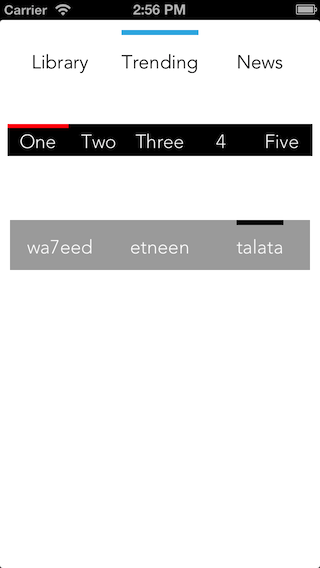
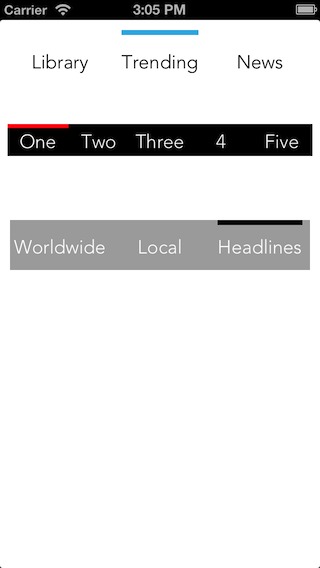
Updating screenshot

diff --git a/HMSegmentedControlExample/HMSegmentedControlExample/ViewController.m b/HMSegmentedControlExample/HMSegmentedControlExample/ViewController.m
@@ -41,7 +41,7 @@
     [self.view addSubview:segmentedControl2];
     
     HMSegmentedControl *segmentedControl3 = [[HMSegmentedControl alloc] initWithFrame:CGRectMake(10, 200, 300, 50)];
-    [segmentedControl3 setSectionTitles:@[@"wa7eed", @"etneen", @"talata"]];
+    [segmentedControl3 setSectionTitles:@[@"Worldwide", @"Local", @"Headlines"]];
     [segmentedControl3 setSelectedIndex:1];
     [segmentedControl3 setBackgroundColor:[UIColor lightGrayColor]];
     [segmentedControl3 setTextColor:[UIColor whiteColor]];
